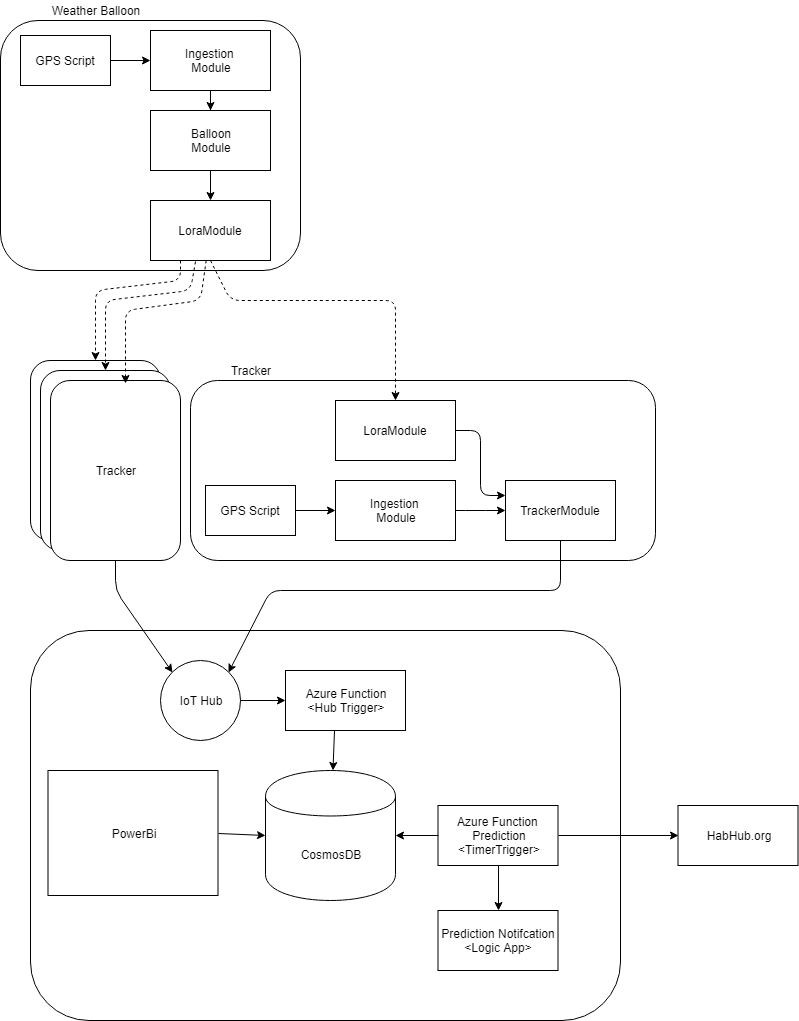
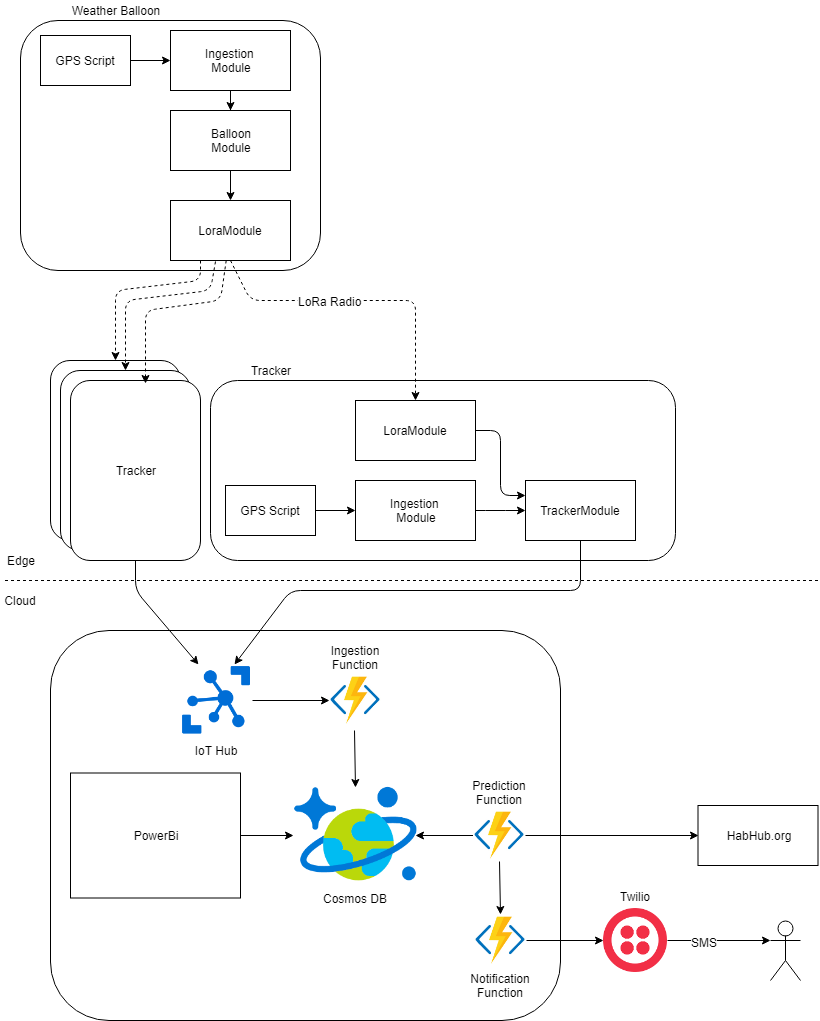
Update readme and arch diagram.

diff --git a/readme.md b/readme.md
@@ -1,6 +1,6 @@
 # High Altitude Weather Balloon
 
-The goal is to collect telemetry from the weather balloon at altitude via Long Range Radio (Lora) to trackers on the ground.  The tracker devices will then send the messages to the Azure cloud where it will be used to predict where the balloon will land.
+The goal is to collect telemetry from the weather balloon at altitude via Long Range Radio (Lora) to trackers on the ground.  The tracker devices will then send the messages to the Azure cloud where it will be used to predict where the balloon will land.  Each member of the chase team will receive the prediction and balloon location via SMS.  PowerBi will also be used to display IoT telemetry. 
 
 [![Build status](https://starbuckdevops.visualstudio.com/WeatherBalloon/_apis/build/status/BalloonEdge-CI)](https://starbuckdevops.visualstudio.com/WeatherBalloon/_build/latest?definitionId=5)
 
@@ -16,6 +16,7 @@ Technology:
 - PowerBi
 - XUnit
 - Azure DevOps
+- Twilio
 - QEMU - build Raspberry Pi images in Azure [Link](http://www.hotblackrobotics.com/en/blog/2018/01/22/docker-images-arm/)
 
 # Architecture
